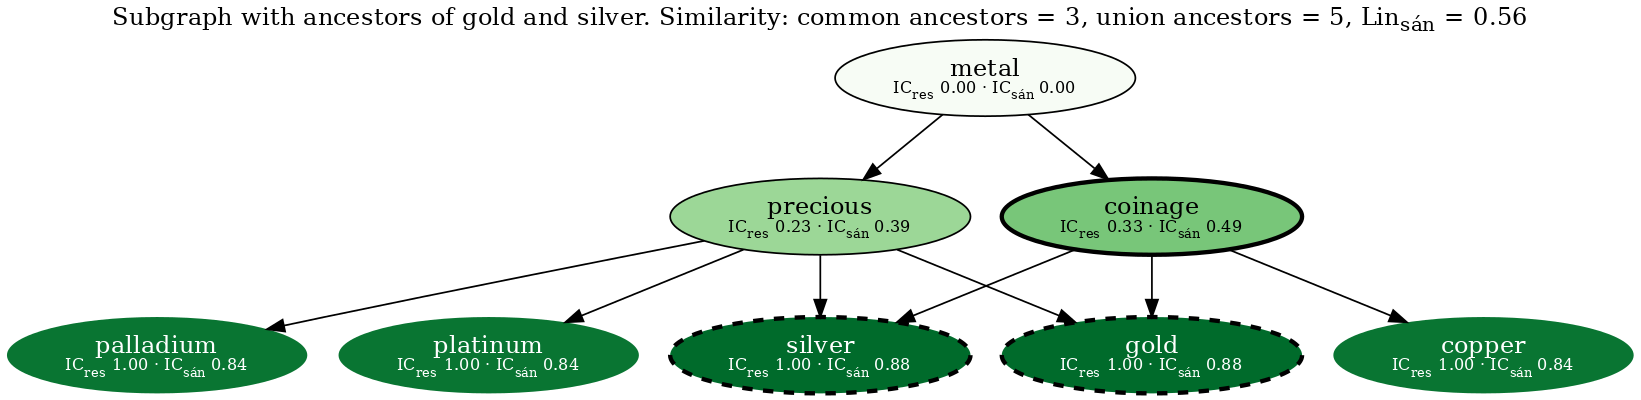
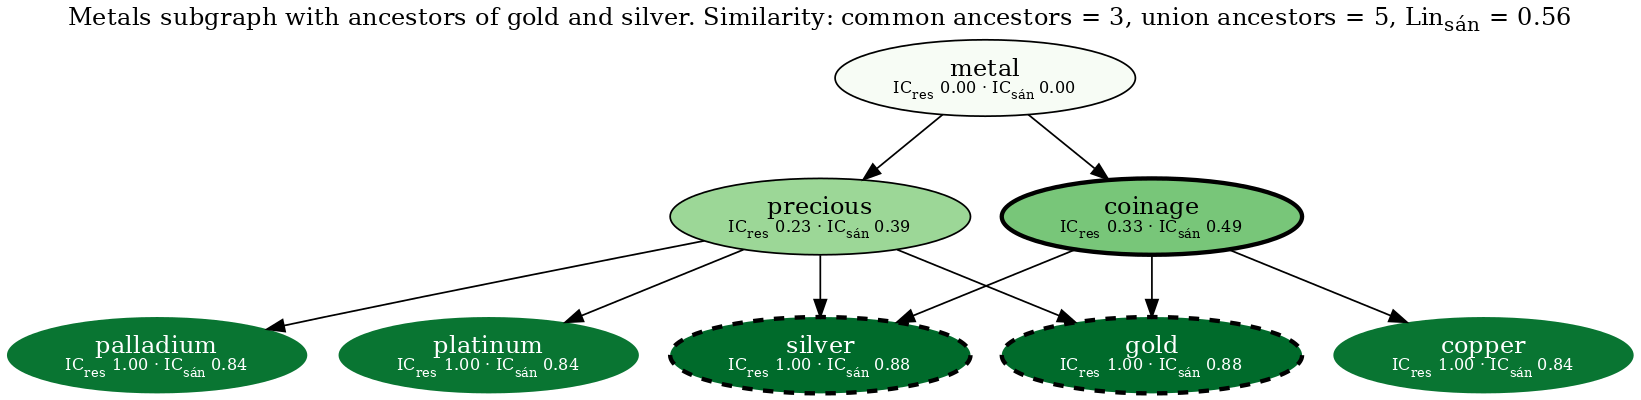
update media/metals-sim-gold-silver-all.png

Changed region(s): [[0.0311, 0.0, 0.9634, 0.09]]

diff --git a/nxontology/ontology.py b/nxontology/ontology.py
@@ -87,6 +87,7 @@ class NXOntology(Freezable):
 
     @property
     def name(self) -> Optional[str]:
+        """Short human-readable name for the ontology."""
         key = self.graph.graph.get("graph_name_attribute", "name")
         name = self.graph.graph.get(key)
         if name is not None:

diff --git a/README.md b/README.md
@@ -73,6 +73,7 @@ gviz.draw("metals-sim-gold-silver-all.png"))
 ```
 
 Resulting in the following figure:
+<!-- from test output: cp nxontology/tests/viz_outputs/metals-sim-gold-silver-all.png media/ -->
 
 ![Metals ontology from Couto & Silva (2011) showing similarity between gold and silver](https://raw.githubusercontent.com/related-sciences/nxontology/8543ec73b0b0e3484806e53318d0d92593c7f5dd/media/metals-sim-gold-silver-all.png)
 
